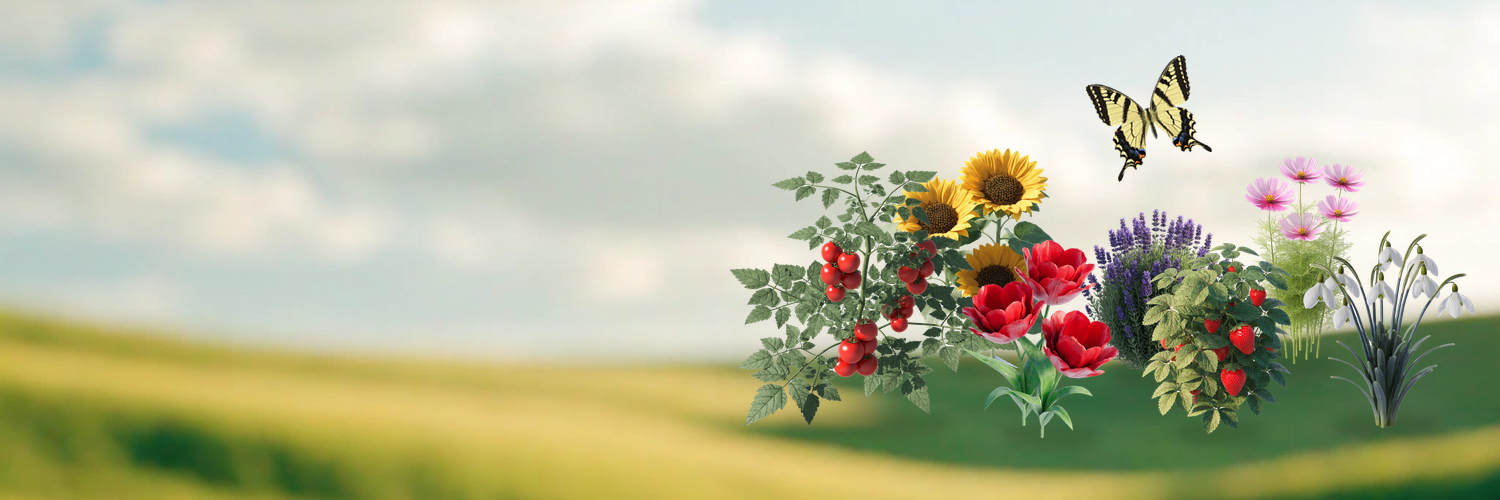
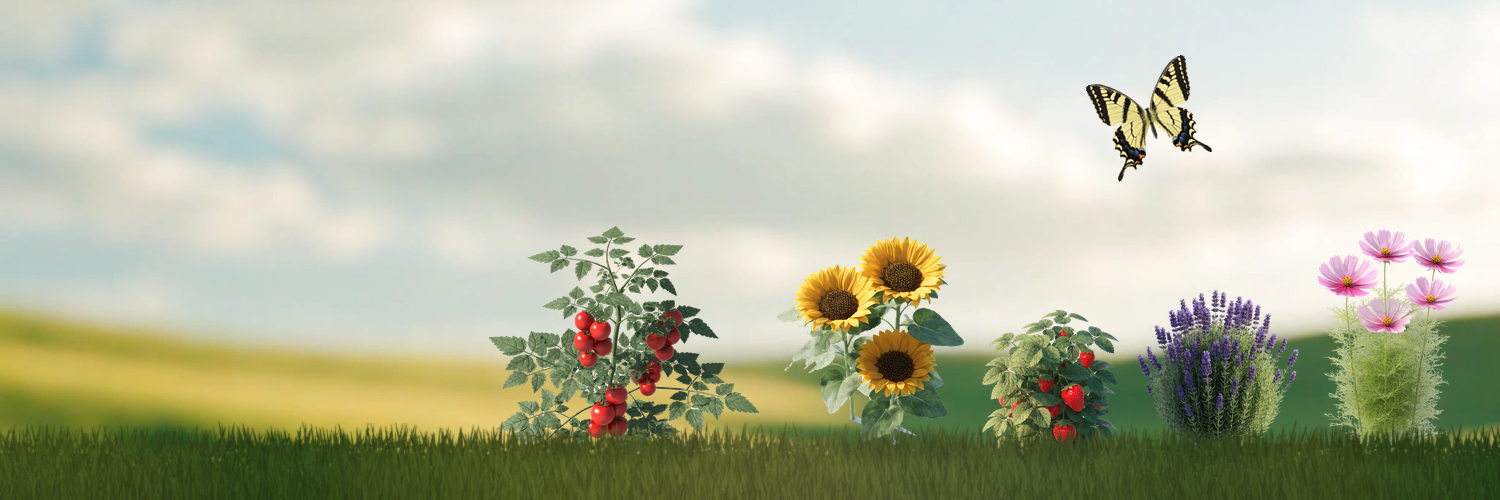
X のヘッダー：手前に芝の帯を敷き、作物を 5 株に減らして間を空ける
- 足元に手前の芝の帯（草の葉を何段も描いたもの、背景よりぼかし弱め）を敷き、根元を埋めた
- 作物はひまわり・トマト・ラベンダー・イチゴ・コスモスの 5 株。右端から 18px ずつ空けて並べ、前後交互
- 接地影は芝の上に移した

diff --git a/tools/make_x_header.py b/tools/make_x_header.py
@@ -5,9 +5,13 @@ Not part of the app: a picture for the store pages, so it is not in docs/ASSET_L
 
   * the background is tools/source_art/app_icon_bg_sky.png (the app icon's blurred sky and green
     hills), scaled to 1500 wide and cut to 500 tall round the line of the hills;
-  * on the hills, right of the middle, stand seven crops at their last stage, cut out of their white
-    as in the game (prepare_drawable_art.cut_out, with the crop's own CUT), two rows: the back one
-    smaller and higher up. Each has a faint shadow at its foot, to sit in the grass;
+  * on the hills, right of the middle, stand five crops at their last stage, cut out of their white
+    as in the game (prepare_drawable_art.cut_out, with the crop's own CUT), one beside another with
+    a little room between them, by turns at the front (larger, lower) and at the back (smaller,
+    higher up);
+  * across the bottom, a strip of near grass (grass_strip), less blurred than the hills, with
+    blades along its top: the crops' feet are hidden in it, so that they stand in the grass
+    instead of floating over the hills, each with a faint shadow on it;
   * a butterfly (cut out as prepare_creature_art does), tilted, in the sky above them.
 
 Only crops and the butterfly that a new player meets early are shown (no later crops, no other
@@ -42,18 +46,31 @@ WIDTH, HEIGHT = 1500, 500
 #: the hills' line about 340 px down.
 SKY_TOP = 770
 
-#: The crops: (crop, source picture, x and y of its foot, pixels a tile at that depth). Drawn in
-#: this order, back to front. Pixels a tile scale the game's own sizes (STAGES), so that the crops
-#: keep their sizes against one another; the back row is about three quarters of the front one.
-CROPS: list[tuple[str, str, int, int, int]] = [
-    ("sunflower", "crop_sunflower_stage3.png", 1005, 368, 250),
-    ("cosmos", "crop_cosmos_stage3.png", 1300, 364, 245),
-    ("lavender", "crop_lavender_stage3.png", 1160, 374, 250),
-    ("tomato", "crop_tomato_3.png", 865, 426, 320),
-    ("tulip", "crop_tulip_red_stage3.png", 1050, 438, 320),
-    ("strawberry", "crop_strawberry_3.png", 1220, 434, 330),
-    ("snowdrop", "crop_snowdrop_stage3.png", 1385, 428, 320),
+#: The crops, left to right: (crop, source picture, row).
+CROPS: list[tuple[str, str, str]] = [
+    ("tomato", "crop_tomato_3.png", "front"),
+    ("sunflower", "crop_sunflower_stage3.png", "back"),
+    ("strawberry", "crop_strawberry_3.png", "front"),
+    ("lavender", "crop_lavender_stage3.png", "back"),
+    ("cosmos", "crop_cosmos_stage3.png", "front"),
 ]
+
+#: Each row: (y of the crops' feet, pixels a tile). Pixels a tile scale the game's own sizes
+#: (STAGES), so that the crops keep their sizes against one another; the back row is about four
+#: fifths of the front one, and stands further up the strip. Both feet are below the top of the
+#: grass strip, hidden in it.
+ROWS: dict[str, tuple[int, int]] = {"front": (484, 300), "back": (452, 245)}
+
+#: Where the right-hand crop ends, and the room between one crop's picture and the next.
+CROPS_RIGHT = 1465
+CROPS_GAP = 18
+
+#: The top of the near grass; its blades rise up to [BLADE_HEIGHT] above where they stand.
+STRIP_TOP = 440
+BLADE_HEIGHT = (10, 30)
+
+#: The green the near grass is drawn towards, from the hills' own (which is yellow on the left).
+GRASS_GREEN = np.array([74.0, 122.0, 42.0])
 
 #: The butterfly: middle, width in pixels, and turn (degrees, anticlockwise).
 BUTTERFLY = ((1150, 118), 104, 18)
@@ -87,6 +104,41 @@ def ground_shadow(canvas: Image.Image, x: int, y: int, width: int) -> None:
     canvas.alpha_composite(layer, (int(x - w / 2), int(y - h / 2 - 2)))
 
 
+def grass_strip(rng: np.random.Generator) -> Image.Image:
+    """The near grass across the bottom: rows of thin leaning blades, one row every few pixels
+    from [STRIP_TOP] down, each nearer row a little lighter; under them a body of the same green,
+    darker below. The green at each column is the hills' own (from the bottom rows of the
+    background, smoothed along) drawn halfway to [GRASS_GREEN]. Drawn three times larger and
+    scaled down, for smooth edges, and only a little softened: sharper than the hills behind."""
+    k = 3
+    rows = np.array(background())[HEIGHT - 40:, :, :3].astype(float).mean(axis=0)
+    kernel = np.ones(121) / 121
+    hills = np.stack([np.convolve(np.pad(rows[:, c], 60, mode="edge"), kernel, "valid") for c in range(3)], axis=1)
+    base = (hills + GRASS_GREEN) / 2 * 0.8
+
+    layer = Image.new("RGBA", (WIDTH * k, HEIGHT * k), (0, 0, 0, 0))
+    d = ImageDraw.Draw(layer)
+    body = STRIP_TOP + 14
+    for y in range(body, HEIGHT):
+        colour = (base.mean(axis=0) * (1 - 0.25 * (y - body) / (HEIGHT - body))).astype(int)
+        d.rectangle((0, y * k, WIDTH * k, (y + 1) * k), fill=tuple(colour) + (255,))
+    depths = list(range(STRIP_TOP + 4, HEIGHT + 24, 7))
+    for i, foot_line in enumerate(depths):
+        near = i / (len(depths) - 1)
+        x = -4.0
+        while x < WIDTH + 4:
+            foot = foot_line + rng.uniform(-3, 3)
+            tall = rng.uniform(*BLADE_HEIGHT) * (0.7 + 0.5 * near) * (1.0 if i < 2 else 0.8)
+            half = rng.uniform(1.3, 2.4) * (0.8 + 0.5 * near)
+            lean = rng.uniform(-8, 8)
+            light = (0.72 + 0.28 * near) * rng.uniform(0.82, 1.15) * (1 - 0.2 * max(0.0, (foot - body) / (HEIGHT - body)))
+            fill = tuple(int(c) for c in (base[int(np.clip(x, 0, WIDTH - 1))] * light).clip(0, 255)) + (255,)
+            d.polygon([((x - half) * k, (foot + 6) * k), ((x + half) * k, (foot + 6) * k), ((x + lean) * k, (foot - tall) * k)], fill=fill)
+            x += rng.uniform(1.2, 3.0)
+    small = layer.convert("RGBa").resize((WIDTH, HEIGHT), Image.LANCZOS)
+    return small.filter(ImageFilter.GaussianBlur(0.6)).convert("RGBA")
+
+
 def background() -> Image.Image:
     sky = Image.open(SOURCE / "app_icon_bg_sky.png").convert("RGB")
     sky = sky.resize((WIDTH, round(sky.height * WIDTH / sky.width)), Image.LANCZOS)
@@ -95,15 +147,24 @@ def background() -> Image.Image:
 
 def compose() -> Image.Image:
     canvas = background()
-    for name, source, x, y, per_tile in CROPS:
+    placed = []
+    right = CROPS_RIGHT
+    for name, source, row in reversed(CROPS):
         rgba = crop(load_cut(source, **CUT.get(name, {})))
         h, w = rgba.shape[:2]
+        y, per_tile = ROWS[row]
         height = STAGES[name][2] * per_tile
         size = (max(1, round(w * height / h)), round(height))
-        sprite = premultiplied_resize(rgba, size)
-        left = round(x - foot_x(rgba, f"plant_{name}_stage3") * size[0])
-        ground_shadow(canvas, x, y, size[0] * 0.6)
-        canvas.alpha_composite(sprite, (left, y - size[1]))
+        left = right - size[0]
+        placed.append((row, premultiplied_resize(rgba, size), left, y, left + foot_x(rgba, f"plant_{name}_stage3") * size[0]))
+        right = left - CROPS_GAP
+    for row in ("back", "front"):
+        for r, sprite, left, y, _ in placed:
+            if r == row:
+                canvas.alpha_composite(sprite, (left, y - sprite.height))
+    canvas.alpha_composite(grass_strip(np.random.default_rng(7)))
+    for _, sprite, _, _, x in placed:
+        ground_shadow(canvas, x, STRIP_TOP + 8, sprite.width * 0.7)
     (cx, cy), width, turn = BUTTERFLY
     fly = crop(cut_creature("butterfly"))
     fh, fw = fly.shape[:2]
